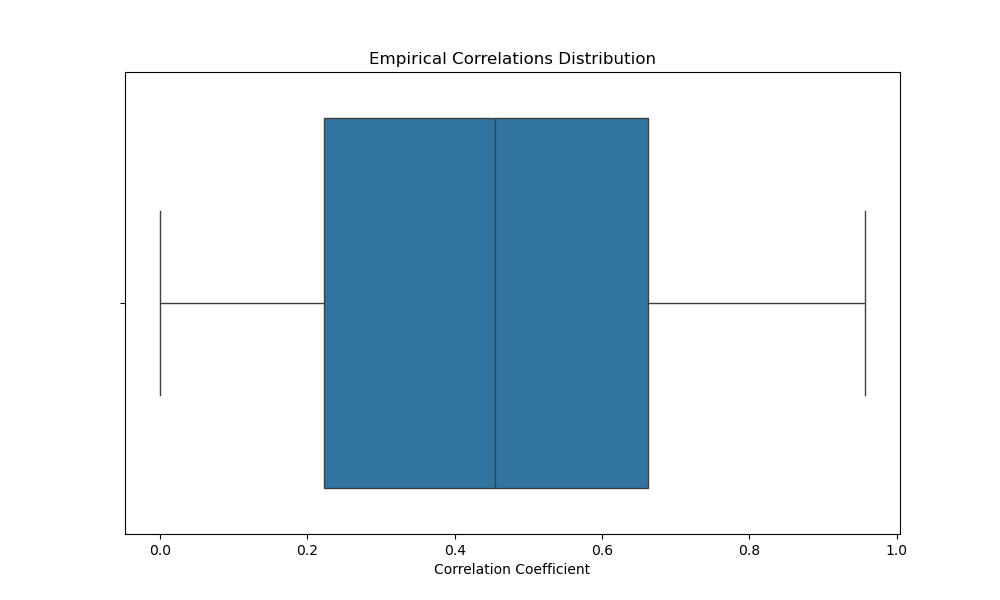
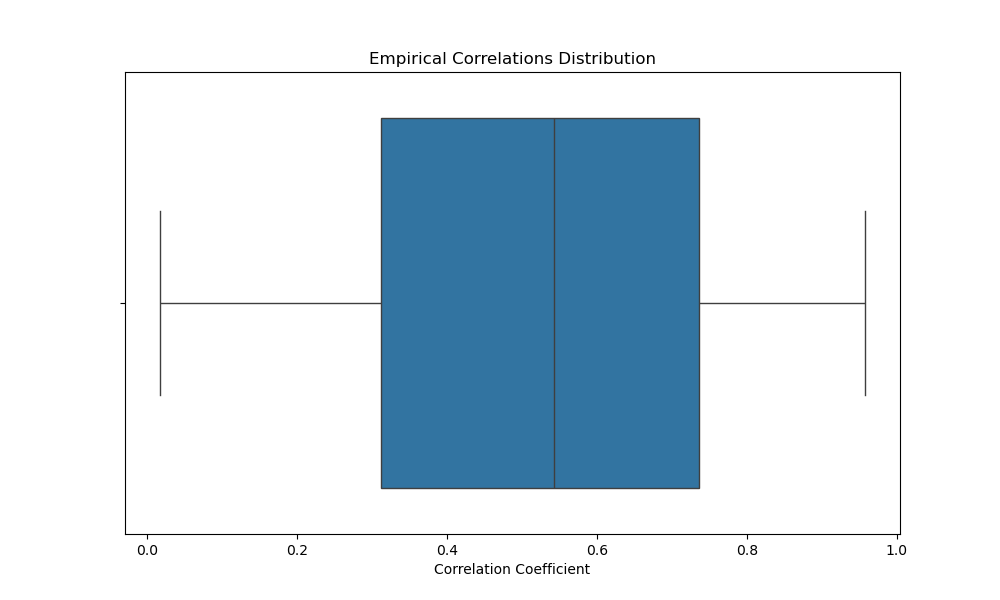
permutation test filter

diff --git a/evaluation/co_evolution/co_evo_pearson.py b/evaluation/co_evolution/co_evo_pearson.py
@@ -194,6 +194,31 @@ def plot(final_freq_dict, allele_1, allele_2, pop_list, super_pop_dict):
     ## save the plot
     plt.savefig(f"./corr_{allele_1}_{allele_2}.png")
 
+
+def permutation_test(HLA_allele_pop_freq_dict, KIR_allele_pop_freq_dict, pop_list, num_iterations=10000):
+    """
+    Perform a permutation test to calculate empirical p-values for the correlation between HLA and KIR allele frequencies.
+    """
+    permutation_correlations = []
+    HLA_allele_list = list(HLA_allele_pop_freq_dict.keys())
+    KIR_allele_list = list(KIR_allele_pop_freq_dict.keys())
+    for i in range(num_iterations):
+        ## randomly select one HLA allele and one KIR allele
+        HLA_allele = random.sample(HLA_allele_list, 1)[0]
+        KIR_allele = random.sample(KIR_allele_list, 1)[0]
+        hla_freqs = [HLA_allele_pop_freq_dict[HLA_allele][pop] for pop in pop_list]
+        kir_freqs = [KIR_allele_pop_freq_dict[KIR_allele][pop] for pop in pop_list]
+        ## the freq in each pop should be >0
+        if any(freq == 0 for freq in hla_freqs) or any(freq == 0 for freq in kir_freqs):
+            continue
+        ## get pearson correlation
+        corr, _ = pearsonr(hla_freqs, kir_freqs)
+        permutation_correlations.append(abs(corr))
+
+    permutation_correlations = sorted(permutation_correlations)
+    return permutation_correlations
+
+
 def correlation_analysis(HLA_allele_pop_freq_dict, KIR_allele_pop_freq_dict, pop_list, corr_tag, empirical_correlations):
     corr_num = 0
     data = []
@@ -213,9 +238,6 @@ def correlation_analysis(HLA_allele_pop_freq_dict, KIR_allele_pop_freq_dict, pop
             empirical_pval = sum(abs(corr) < abs(emp_corr) for emp_corr in empirical_correlations) / len(empirical_correlations)
             data.append((HLA_allele, KIR_allele, corr, pval, corr_tag, empirical_pval))
 
-
-    print (f"Total number of significant correlations: {corr_num}")
-    ## to df
     df = pd.DataFrame(data, columns=["HLA_allele", "KIR_allele", "Pearson_r", "p_value", "corr_tag", "empirical_p_value"])
     ## correct p-values
 
@@ -227,7 +249,13 @@ def correlation_analysis(HLA_allele_pop_freq_dict, KIR_allele_pop_freq_dict, pop
     print(f"Number of significant associations after correction: {len(df)}")
     ## sort by p_value_corrected
     df = df.sort_values(by="p_value_corrected", ascending=True)
-
+    permutation_correlations = permutation_test(HLA_allele_pop_freq_dict, KIR_allele_pop_freq_dict, pop_list, 10000)
+    ### add permutation p-value
+    for index, row in df.iterrows():
+        permutation_p_val = sum(abs(row["Pearson_r"]) < abs(emp_corr) for emp_corr in permutation_correlations) / len(permutation_correlations)
+        df.at[index, "permutation_p_value"] = permutation_p_val
+    df = df[df["permutation_p_value"] < 0.05]
+    print (f"Number of significant associations after permutation test: {len(df)}")
     print (df)
     # plot(final_freq_dict, "IGKV2-29*01", "HLA-DPA1*01", pop_list, super_pop_dict)
     return df, final_freq_dict
@@ -260,7 +288,7 @@ def read_snp_freq(chr1_vcf, sample_pop_dict, pop_list, gene_region_dict):
 
     for variant in vcf:
         ## randomly select with a rate of 1%
-        if random.random() > 0.1:
+        if random.random() > 1:
             continue
         if not (variant.REF != '.' and variant.ALT[0] != '.'):
             continue
@@ -310,7 +338,7 @@ def read_snp_freq(chr1_vcf, sample_pop_dict, pop_list, gene_region_dict):
         # for pop in pop_list:
         #     print (f"{variant.ID} {pop}: {round(allele_pop_freq_dict[variant.ID][pop], 2)}, {pop_ref_count[pop]}, {pop_total_alleles[pop]}")
 
-        if len(allele_pop_freq_dict) > 1000:
+        if len(allele_pop_freq_dict) > 100:
             break
     print (len(allele_pop_freq_dict), "variants")
     return allele_pop_freq_dict
@@ -396,7 +424,7 @@ if __name__ == "__main__":
     print ("len(pop_list)", len(pop_list))
     chr1_allele_pop_freq_dict = read_snp_freq(chr1_vcf, sample_pop_dict, pop_list, gene_region_dict)
     chr10_allele_pop_freq_dict = read_snp_freq(chr10_vcf, sample_pop_dict, pop_list, gene_region_dict)
-    empirical_correlations = empirical_test(chr1_allele_pop_freq_dict, chr10_allele_pop_freq_dict, pop_list, 1000)
+    empirical_correlations = empirical_test(chr1_allele_pop_freq_dict, chr10_allele_pop_freq_dict, pop_list, 100)
 
     TCR_pop_freq_dict, pop_list = read_ig_tcr_csv(ig_tcr_csv, sample_pop_dict, family="TR")
     IG_pop_freq_dict, pop_list = read_ig_tcr_csv(ig_tcr_csv, sample_pop_dict, family="IG")
